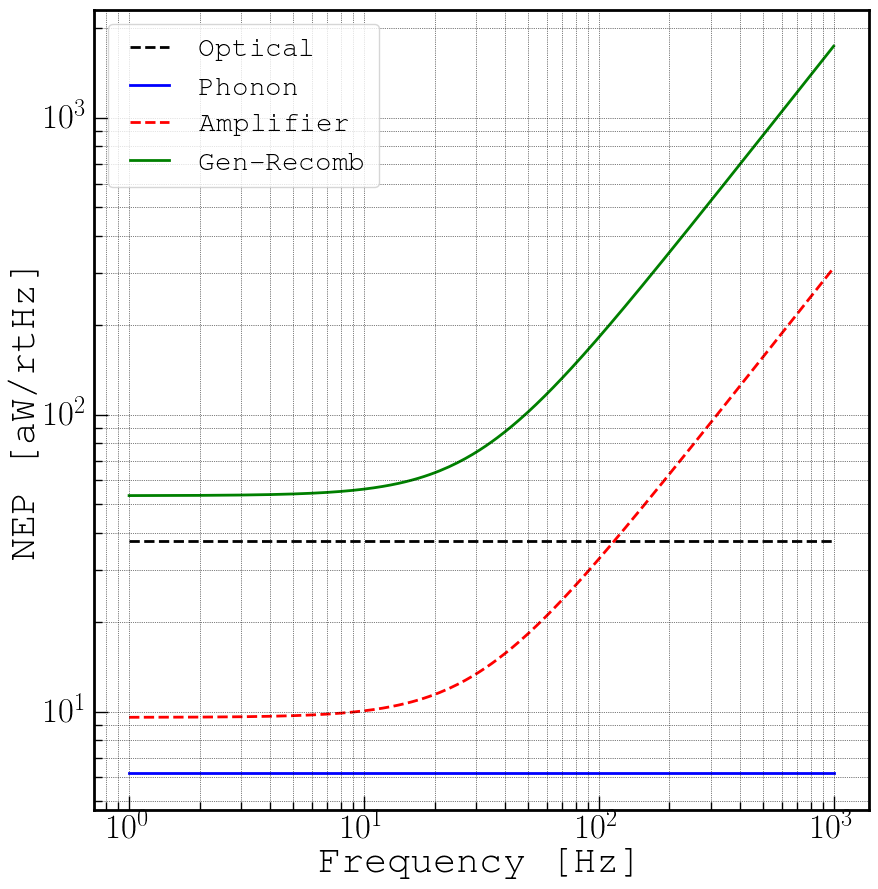
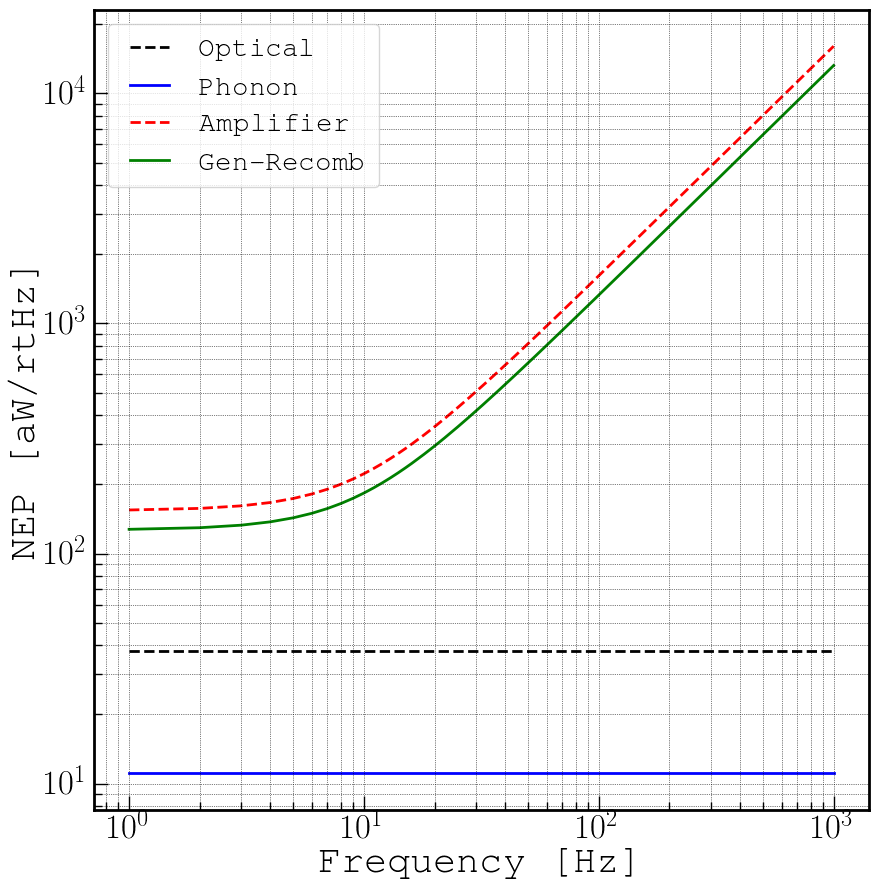
newest noise projections

diff --git a/mkidsens/noiseprojections.py b/mkidsens/noiseprojections.py
@@ -43,22 +43,25 @@ ax.legend(loc='best')
 plt.savefig(r'NEP.png')
 plt.show()
 
-exit()
+# exit()
 
-fig, ax = plt.subplots(figsize=(10,10))
-ax.set_xlabel(r'Frequency [Hz]')
-ax.set_ylabel(r'Responsivity [Hz/fW]')
-ax.legend(loc = 'best')
-ax.grid(which = 'both')
-ax.axis('tight')
+
+r *= (f_r * Q_c/2/Q_r**2)
+r.to(u.kHz/u.pW)
+# fig, ax = plt.subplots(figsize=(10,10))
+# ax.set_xlabel(r'Frequency [Hz]')
+# ax.set_ylabel(r'Responsivity [Hz/fW]')
+# ax.legend(loc = 'best')
+# ax.grid(which = 'both')
+# ax.axis('tight')
 
 fig2, ax2 = plt.subplots(figsize=(10,10))
-ax3 = ax2.twinx()
-ax3.semilogx(nu, np.angle(r), 'r', label=r'phase')
+# ax3 = ax2.twinx()
+# ax3.semilogx(nu, np.angle(r), 'r', label=r'phase')
 ax2.semilogx(nu, np.abs(r), 'k', label=r'abs')
 ax2.set_xlabel(r'Frequency [Hz]')
 ax2.set_ylabel(r'Responsivity [Hz/fW]')
 ax2.grid(which = 'both')
 ax2.axis('tight')
-ax3.set_ylabel(r'Phase')
+# ax3.set_ylabel(r'Phase')
 plt.show()

diff --git a/mkidsens/tkid_params.py b/mkidsens/tkid_params.py
@@ -41,7 +41,7 @@ P_opt = ((Vdc/Rb)**2 * Rh).to(u.pW)
 gamma_leg = 1.6#2.65
 K_leg = 120 * u.picoWatt/u.Kelvin**gamma_leg
 T_c = 1.32 * u.Kelvin
-T_0 = 0.23 * u.Kelvin # Temperature of the thermal bath
+T_0 = 60e-3 * u.Kelvin # Temperature of the thermal bath
 C_b = 1 * u.picoJoule/u.Kelvin
 
 # print ("Resonator parameters set.")
@@ -67,9 +67,9 @@ P_read = (-100 * dBm).to(u.pW)
 x = P_read/P_opt
 
 # Determine T_b by balancing the input and the output power to the resobolo
-# T_b= ((((1 + x)* P_opt)/K_leg + T_0**gamma_leg)**(1./gamma_leg)).to('K')
-# print(T_b)
-T_b = 60 * u.mK
+T_b= ((((1 + x)* P_opt)/K_leg + T_0**gamma_leg)**(1./gamma_leg)).to('K')
+print(T_b)
+# T_b = 0.38 * u.K
 
 # Physical properties of the superconductor + resonator capacitor
 t = 0.05 * u.um
